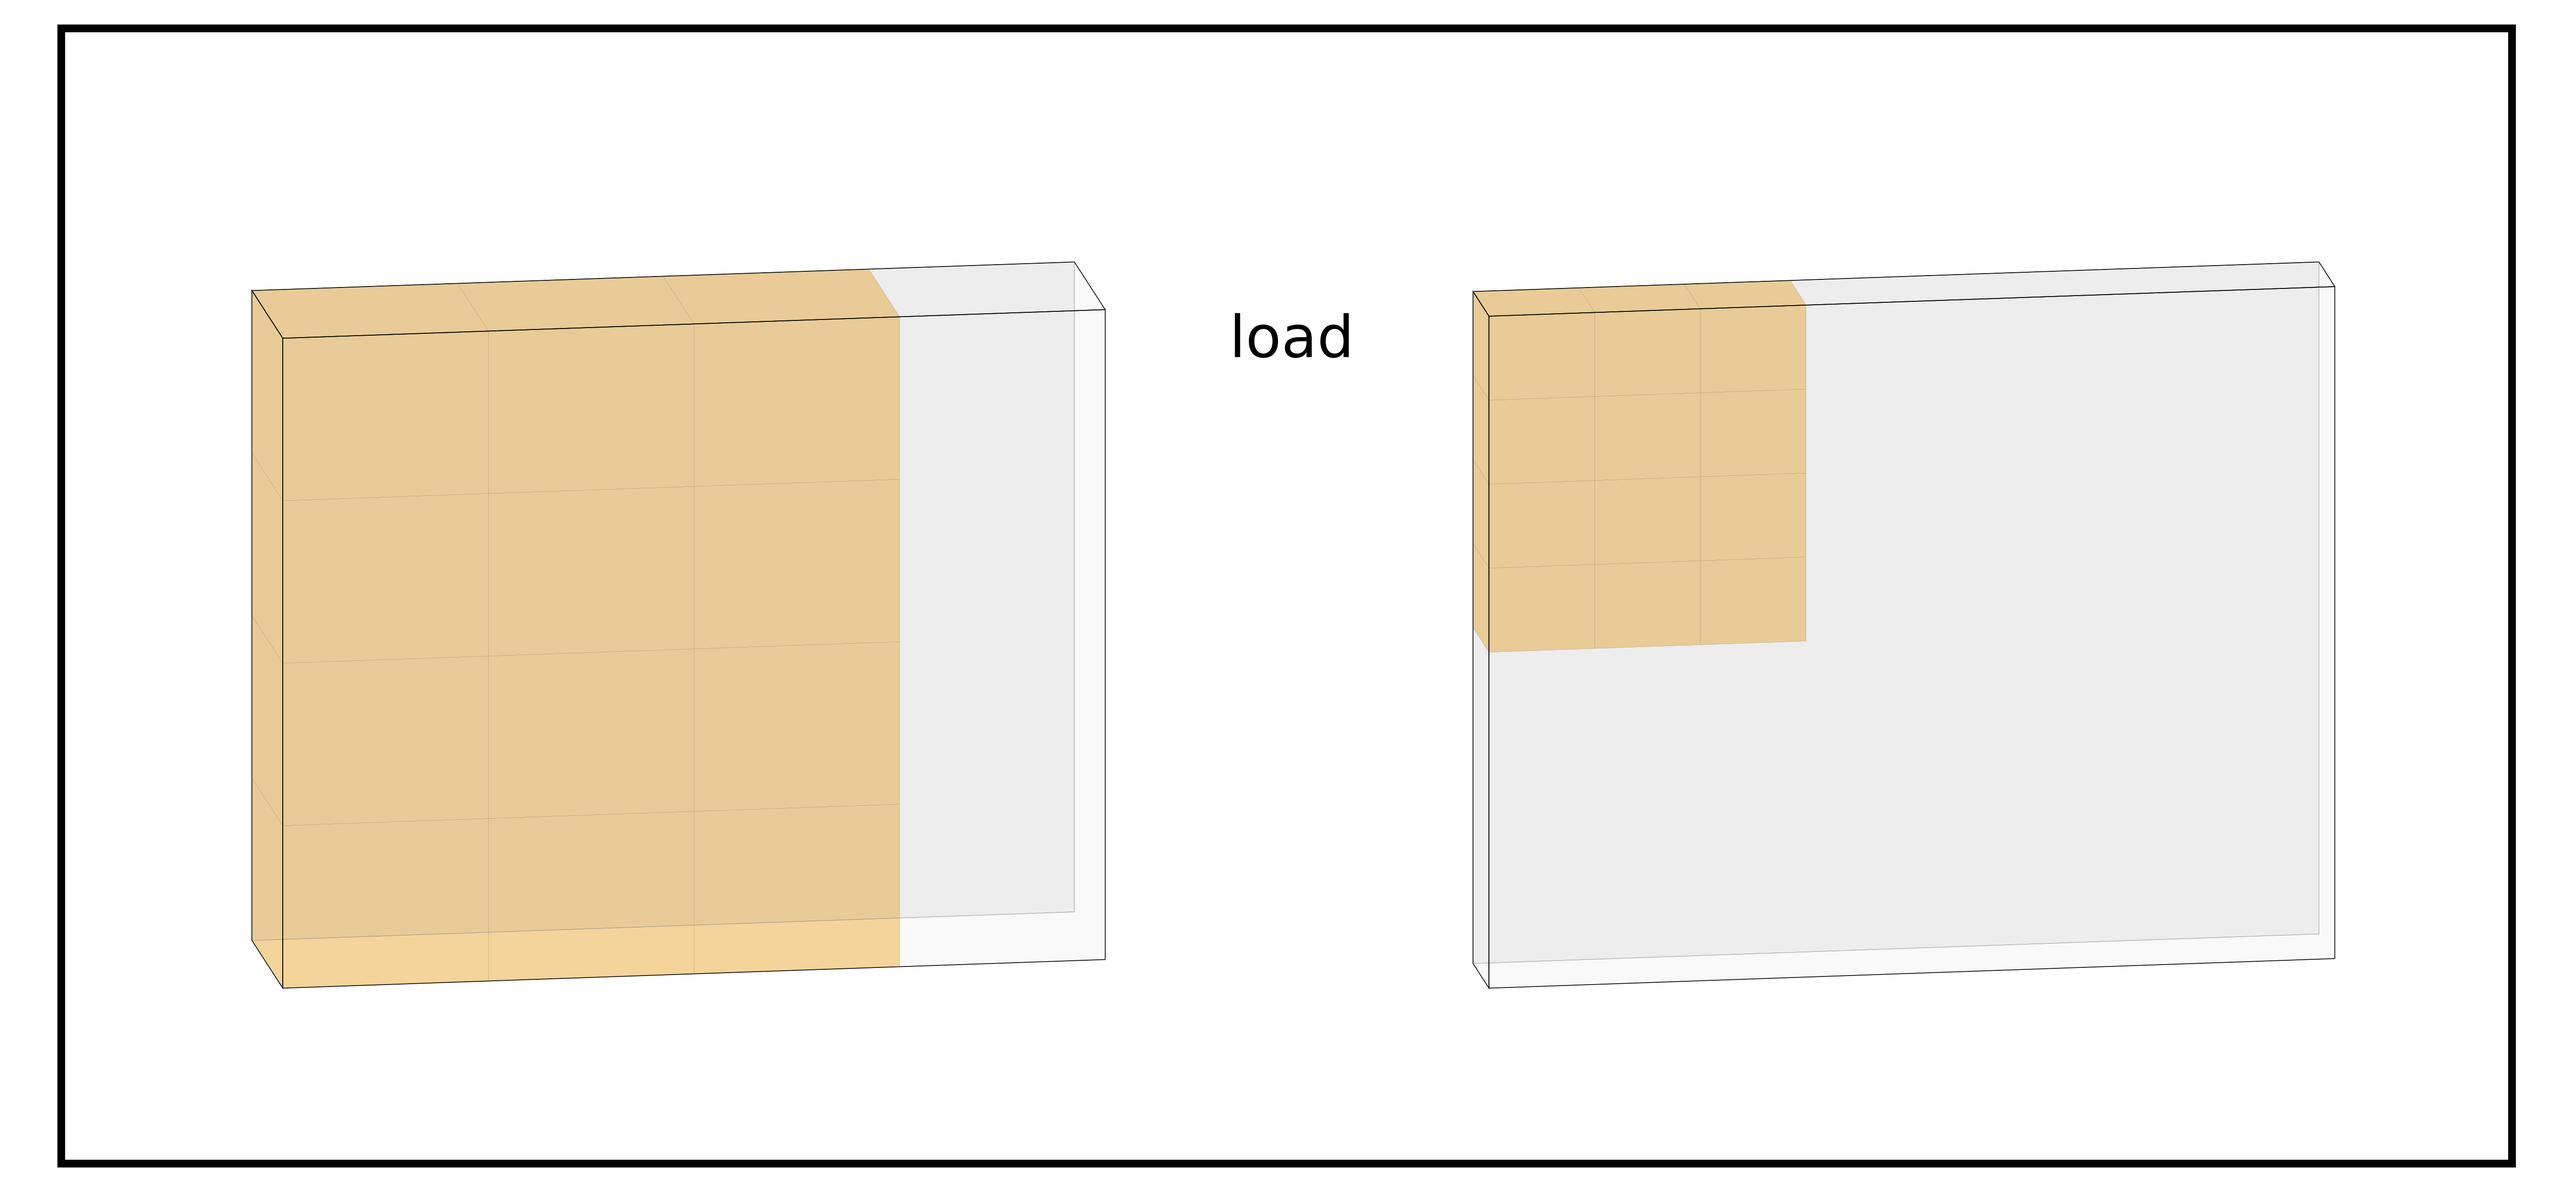
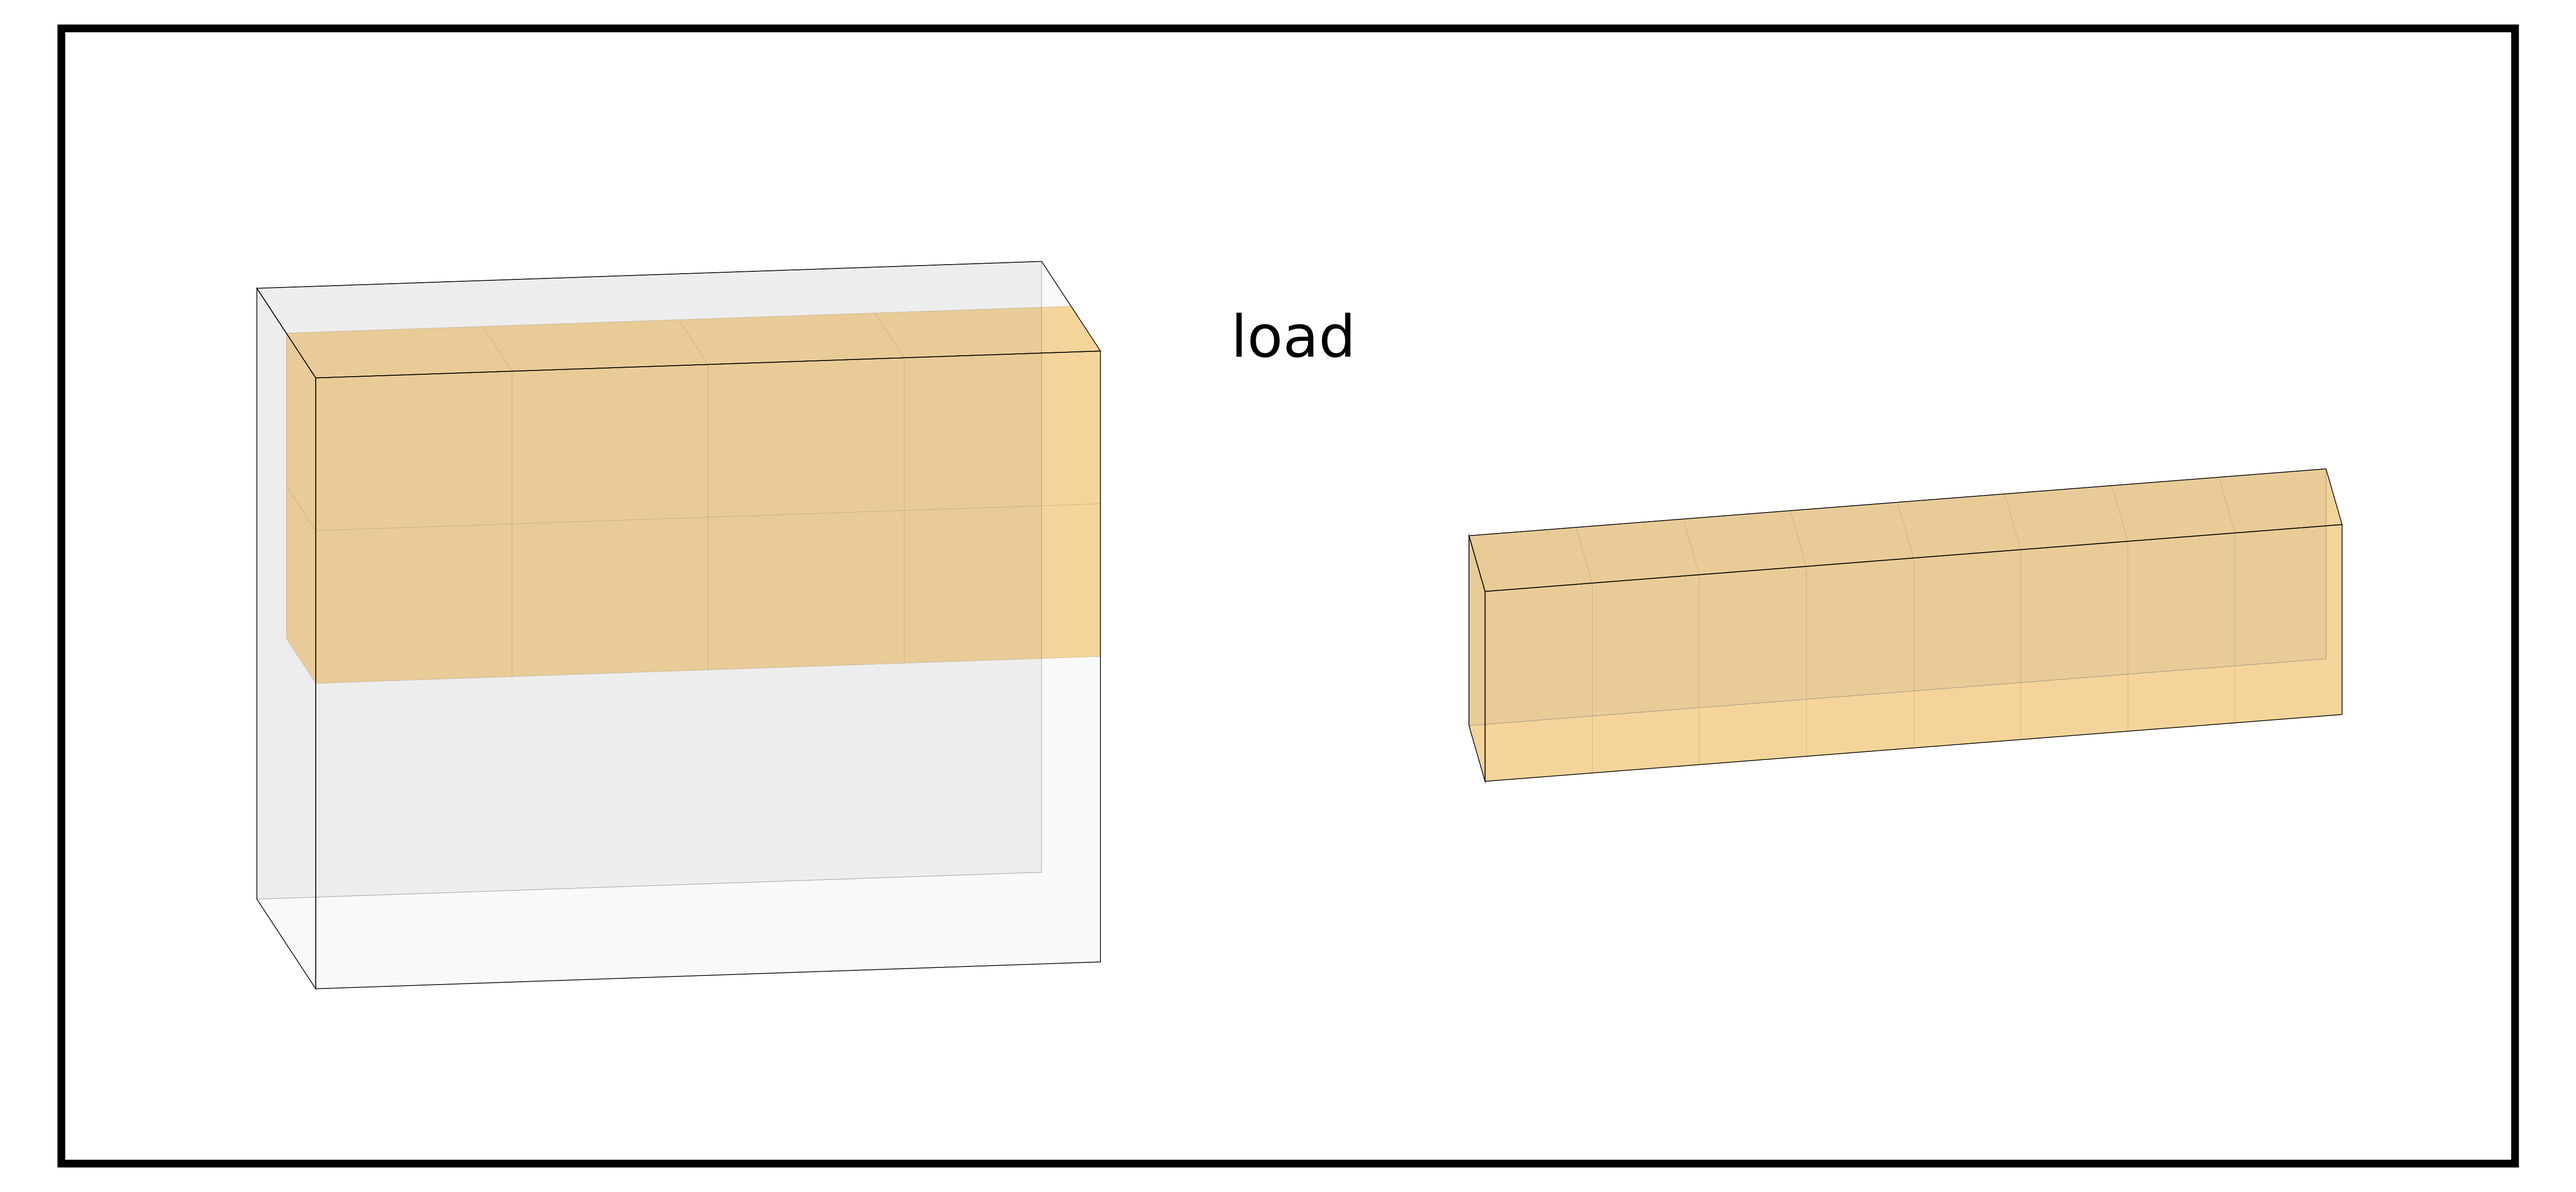
triton: block loading

Changed region(s): [[0.0934, 0.2184, 0.4359, 0.8424], [0.5604, 0.2184, 0.934, 0.6552]]

diff --git a/README.md b/README.md
@@ -8,7 +8,8 @@
 
 |**Day**|**Code**|**Notes**|**Progress**|
 |---|----|-----|--------|
-|036|[triton puzzles loading 2d tensors](./triton/puzzles.ipynb)|[triton](./notes/003/)|2d tensor and tl.store|
+|037|[triton puzzles: blocks and loading](./triton/puzzles.ipynb)|[triton](./notes/003/)|2d tensor loading as blocks|
+|036|[triton puzzles: loading 2d tensors](./triton/puzzles.ipynb)|[triton](./notes/003/)|2d tensor and tl.store|
 |035|[triton puzzles](./triton/puzzles.ipynb)|[triton](./notes/003/)|tritonviz + debugging meson + puzzles environment setup|
 |034|[benchmarking in triton](./triton/vec_add.py)|[triton](./notes/003/)|triton benchmarking + plots|
 |033|[vector addition in triton](./triton/vec_add.py)|[triton](./notes/003/)|triton setup + vector addition|
